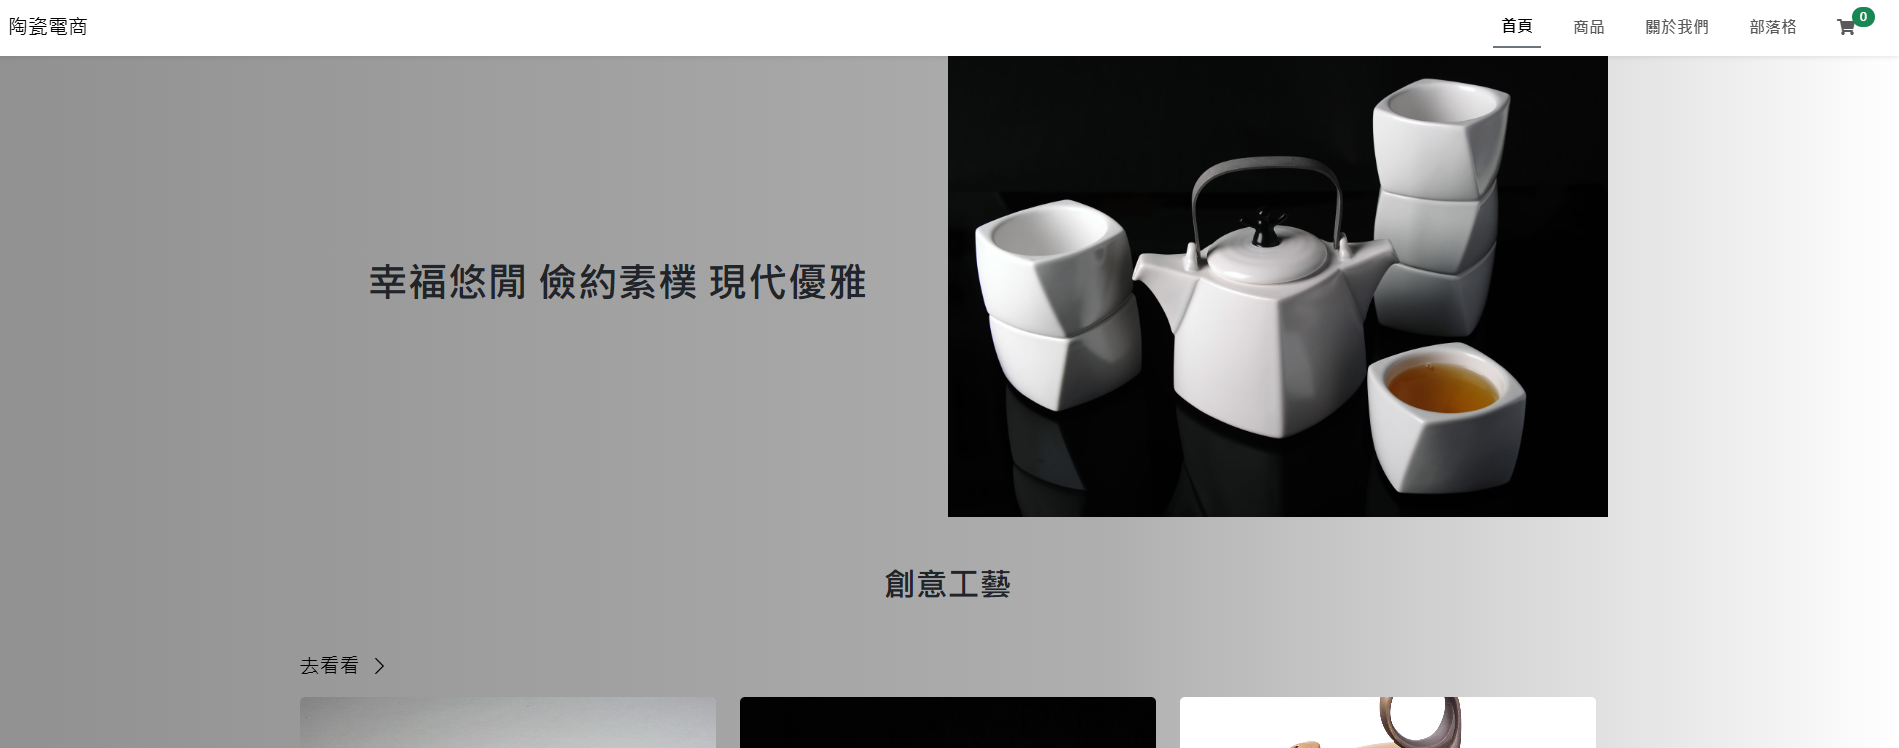
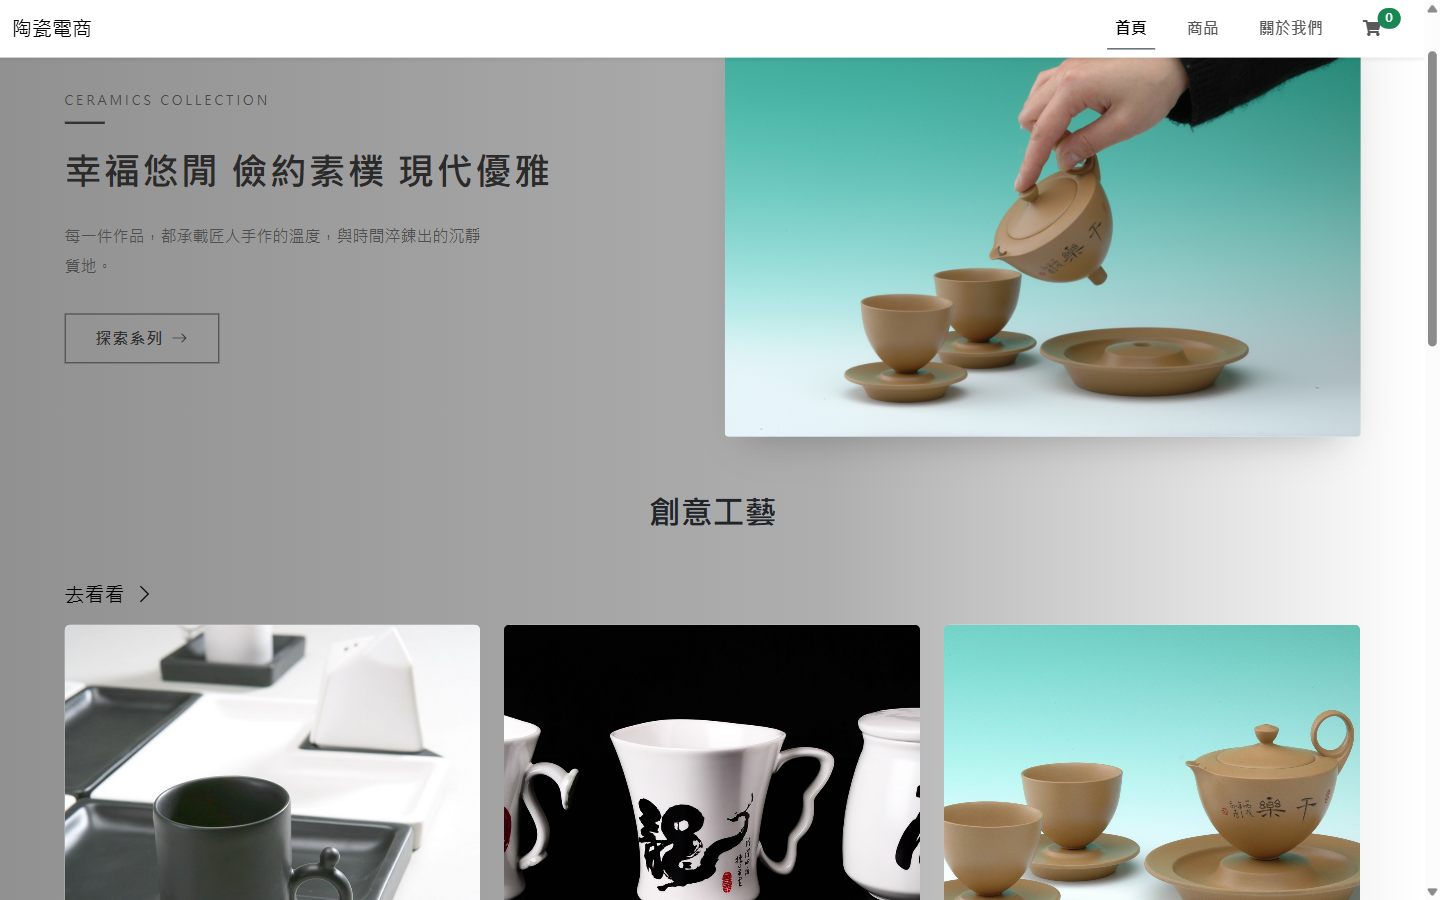
更新 README 內容與首頁預覽圖
- 移除已刪除的部落格、後台管理相關說明
- 更新首頁預覽截圖為目前實際上線畫面

diff --git a/README.md b/README.md
@@ -1,7 +1,7 @@
 # Final Project - 陶瓷電商平台 Ceramica
 
-靈感來自家裡長輩做陶瓷的創業夢，我把這個想法做成了一個超完整的電商網站！
-網站分為前台與後台，前台可以逛商品、加購物車、看陶瓷文章、線上結帳；後台則能上架商品、發文、管理訂單，全都搞定！  
+靈感來自家裡長輩做陶瓷的創業夢，我把這個想法做成了一個電商網站！
+可以逛商品、看商品詳細介紹、加購物車、走完線上結帳流程。
 設計走清爽風、加了動畫與 Toast 提醒，讓體驗不只好看也好用，還支援 RWD 自適應顯示，手機也能逛！
 
 
@@ -16,23 +16,12 @@
 
 ## 功能介紹
 
-### 前台 Front
-
 - 商品瀏覽與分類篩選
 - 商品詳細介紹
 - 購物車管理（數量調整、刪除、優惠券）
 - 結帳流程（填寫表單、付款、成功頁面）
-- 部落格文章介紹
 - 關於我們頁面
 - 響應式設計支援桌機 / 平板 / 手機等裝置
-
-### 後台 Admin
-
-- 商品管理（新增 / 編輯 / 刪除）
-- 訂單管理（查看 / 刪除）
-- 優惠券管理
-- 文章管理
-- 管理者登入驗證
 
 ---
 
@@ -45,15 +34,14 @@ src/
 │ └── styles/
 │
 ├── components/ # 常用元件如 Header、Footer、Toast 等
-│ └── common/ # 模組化元件包含管理 Modal
+│ └── common/
 │
-├── layout/ # 前台與後台 Layout
+├── layout/ # 前台 Layout
 │
-├── pages/ # 各頁面（依前台 front、後台 admin 分類）
-│ ├── admin/
-│ └── front/
+├── pages/
+│ └── front/ # 各前台頁面
 │
-├── redux/ # Redux slices（購物車、訂單、優惠券、Toast）
+├── redux/ # Redux slices（購物車、Toast）
 │
 ├── router/ # React Router 設定
 │
@@ -69,8 +57,8 @@ src/
 | 分類          | 技術/套件名稱                                         | 用途說明                                |
 | ------------- | ----------------------------------------------------- | --------------------------------------- |
 | 前端框架      | `React 18`, `Vite`                                    | 建立現代化單頁應用、快速開發與編譯      |
-| 路由管理      | `react-router-dom`                                    | 前後台路由切換與動態路由處理            |
-| 狀態管理      | `@reduxjs/toolkit`, `react-redux`                     | 管理購物車、訂單、優惠券、Toast 狀態    |
+| 路由管理      | `react-router-dom`                                    | 頁面路由切換與動態路由處理              |
+| 狀態管理      | `@reduxjs/toolkit`, `react-redux`                     | 管理購物車、Toast 狀態                  |
 | 請求處理      | `axios`                                               | 與後端 API 溝通、資料 CRUD              |
 | 響應式設計    | `Bootstrap`, `Media Query`                            | 打造支援各種裝置大小的自適應版面（RWD） |
 | UI 組件與框架 | `bootstrap`, `react-bootstrap`                        | 快速建立響應式設計、彈性 UI 元件        |
